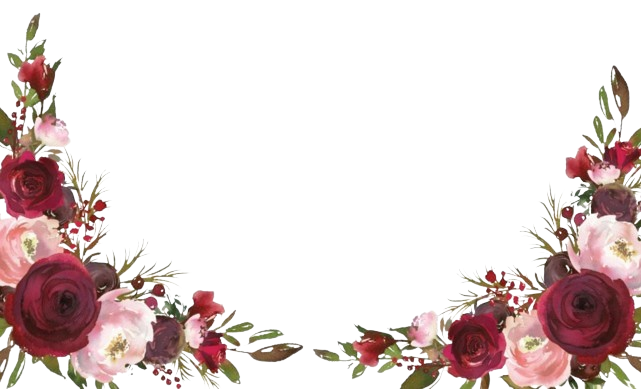
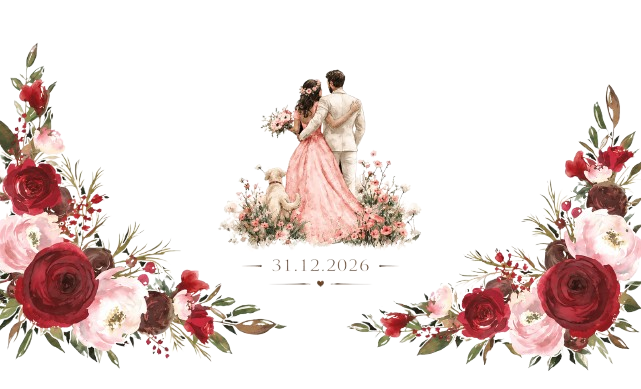
Add files via upload

diff --git a/assets/index.html b/assets/index.html
@@ -1018,20 +1018,6 @@
             margin-bottom: 0;
         }
 
-        .bottom-logo-img {
-            width: 70px;
-            height: auto;
-            display: block;
-            opacity: 0.9;
-        }
-
-        .bottom-event-date {
-            font-family: 'Playfair Display', serif !important;
-            font-size: 0.78rem;
-            color: #a39284;
-            letter-spacing: 2px;
-        }
-
         .blessing-footer-text {
             font-family: 'Alex Brush', cursive !important;
             font-size: 1.6rem;
@@ -1327,10 +1313,7 @@
 
                 <!-- Footer Container & Elements -->
                 <div class="bottom-logo-container reveal-element reveal-fade-up">
-                    <img src="assets/bottom-logo.png" alt="Logo" class="bottom-logo-img">
-                    <div class="bottom-event-date">31.12.2026</div>
-                    
-                    <div class="blessing-footer-text" data-en="Wishing a lifetime of love and happiness together" data-ml="സ്നേഹവും സന്തോഷവും നിറഞ്ഞ ഒരു ജീവിതം ആശംസിക്കുന്നു" data-hi="एक साथ प्यार और खुशी से भरे जीवन की कामना करते हैं">Wishing a lifetime of love and happiness together</div>
+                    <div class="blessing-footer-text" data-en="We warmly welcome you. Your presence and prayers will make our celebration truly special" data-ml="നിങ്ങളുടെ സാന്നിധ്യവും പ്രാർത്ഥനകളും ഞങ്ങളുടെ ആഘോഷത്തെ കൂടുതൽ മനോഹരമാക്കുന്നതിനായി ഹൃദയപൂർവ്വം സ്വാഗതം ചെയ്യുന്നു" data-hi="आपकी उपस्थिति और प्रार्थनाएँ हमारे उत्सव को और भी सुंदर बनाएँगी। आपका हार्दिक स्वागत है।">We warmly welcome you. Your presence and prayers will make our celebration truly special</div>
                     
                     <img src="assets/footer-flowers.png" alt="Footer Floral Decoration" class="footer-flowers-img">
                 </div>
